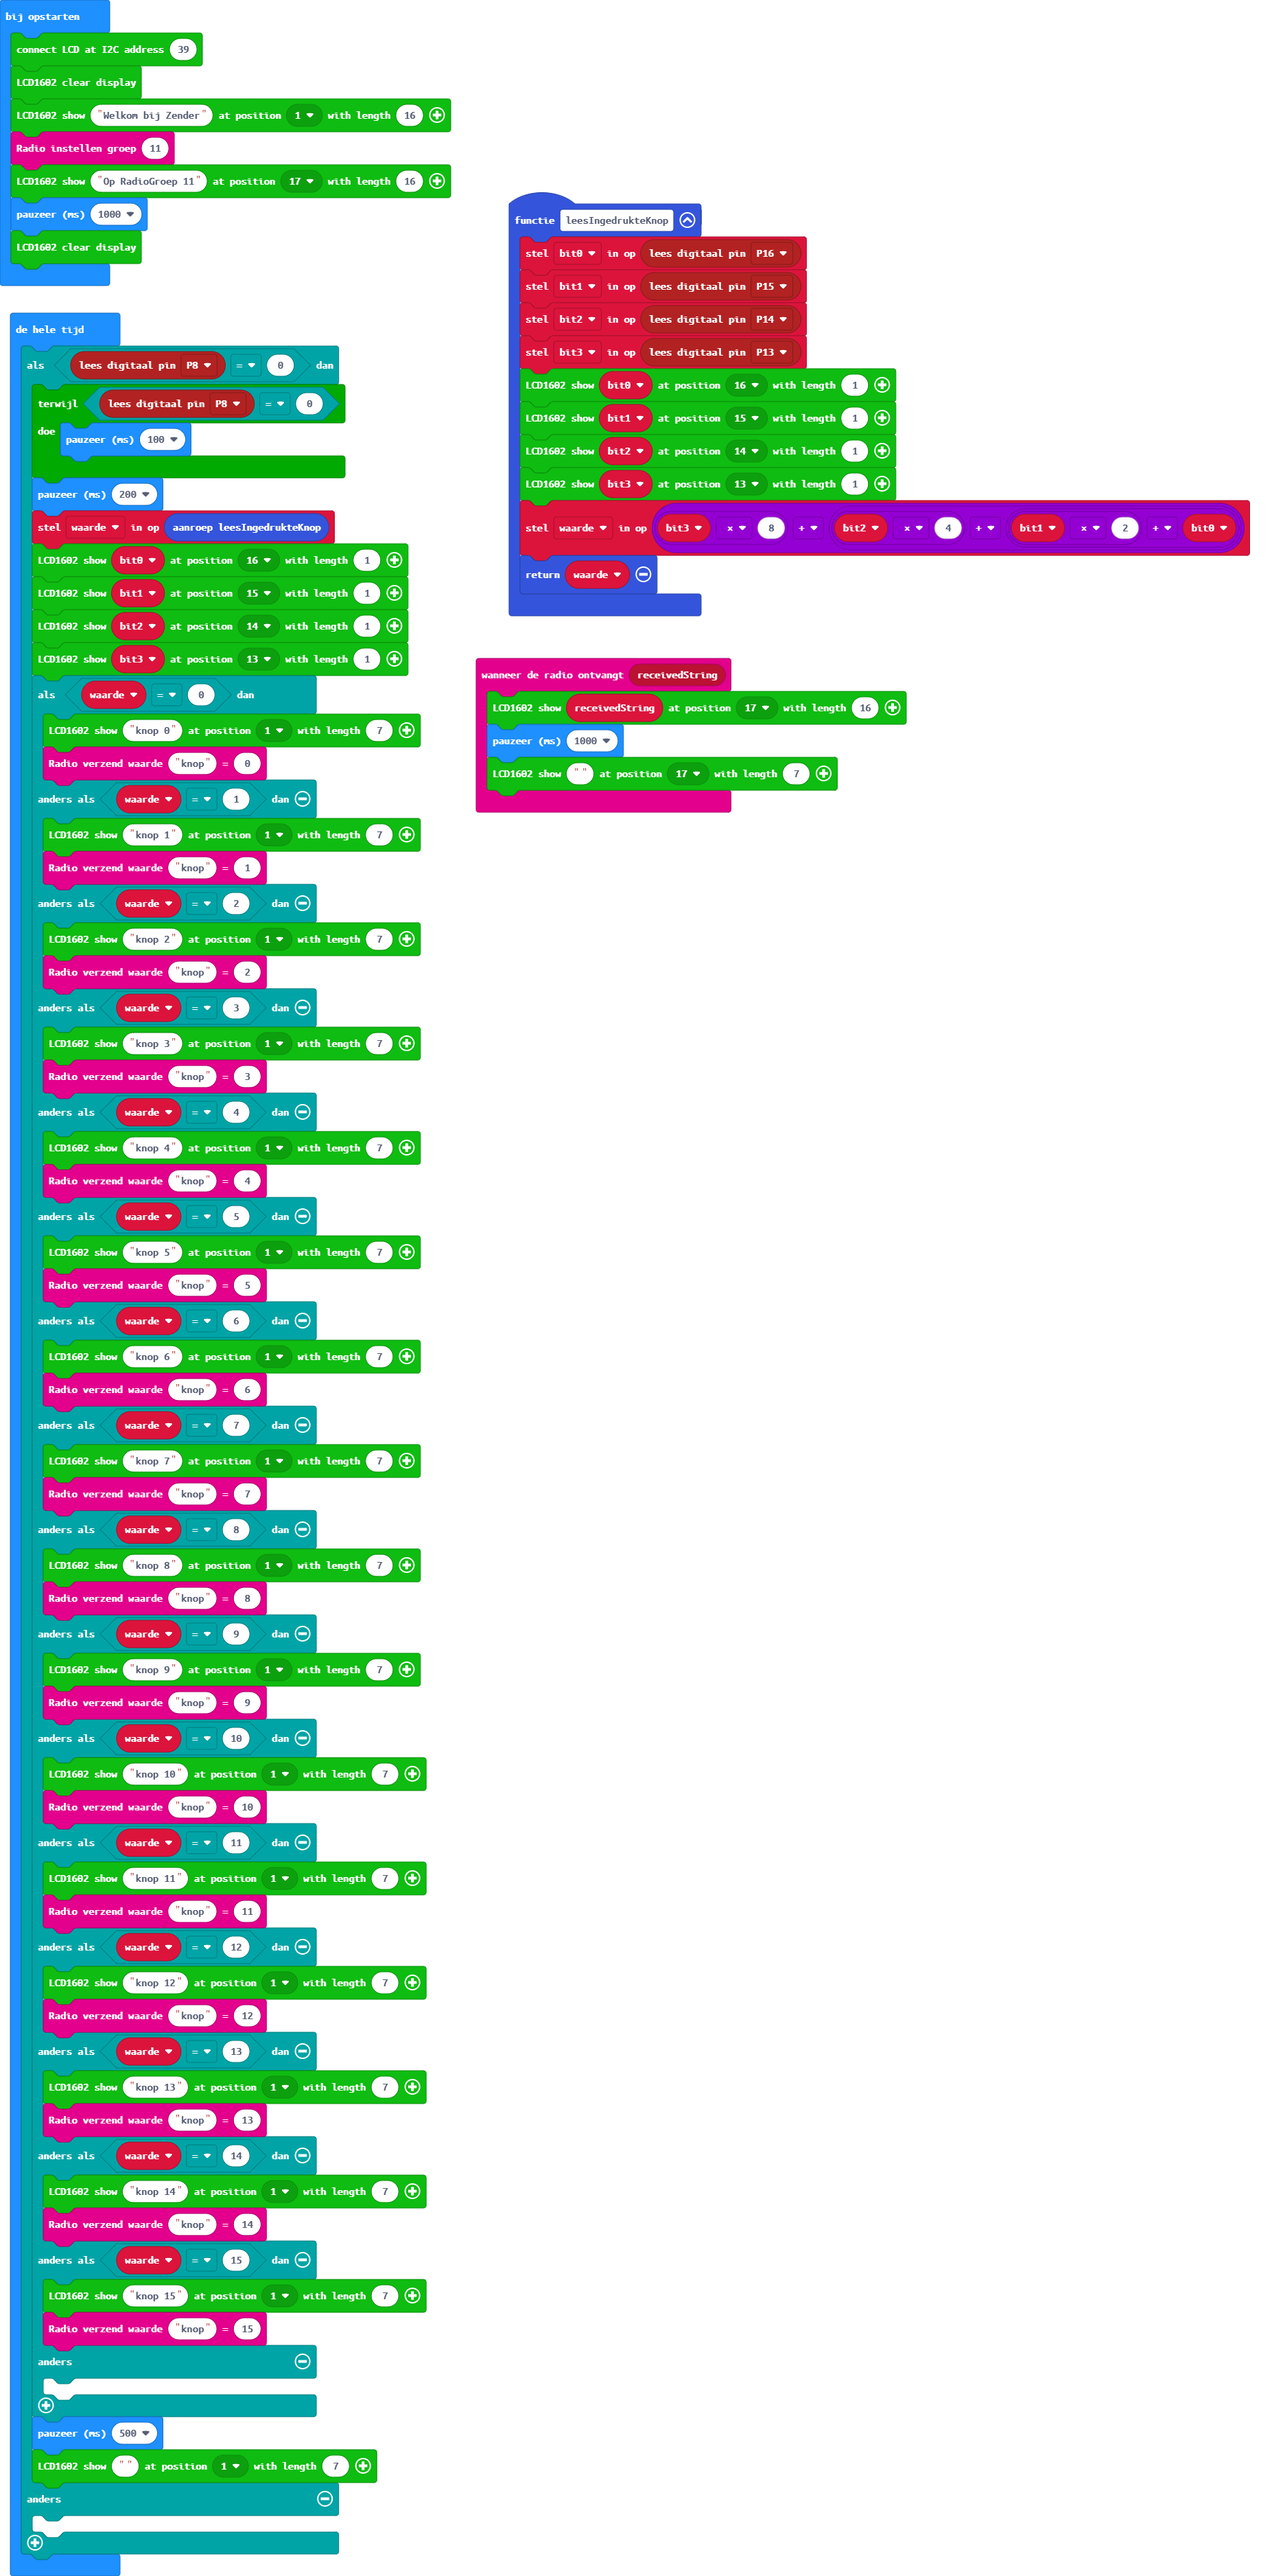
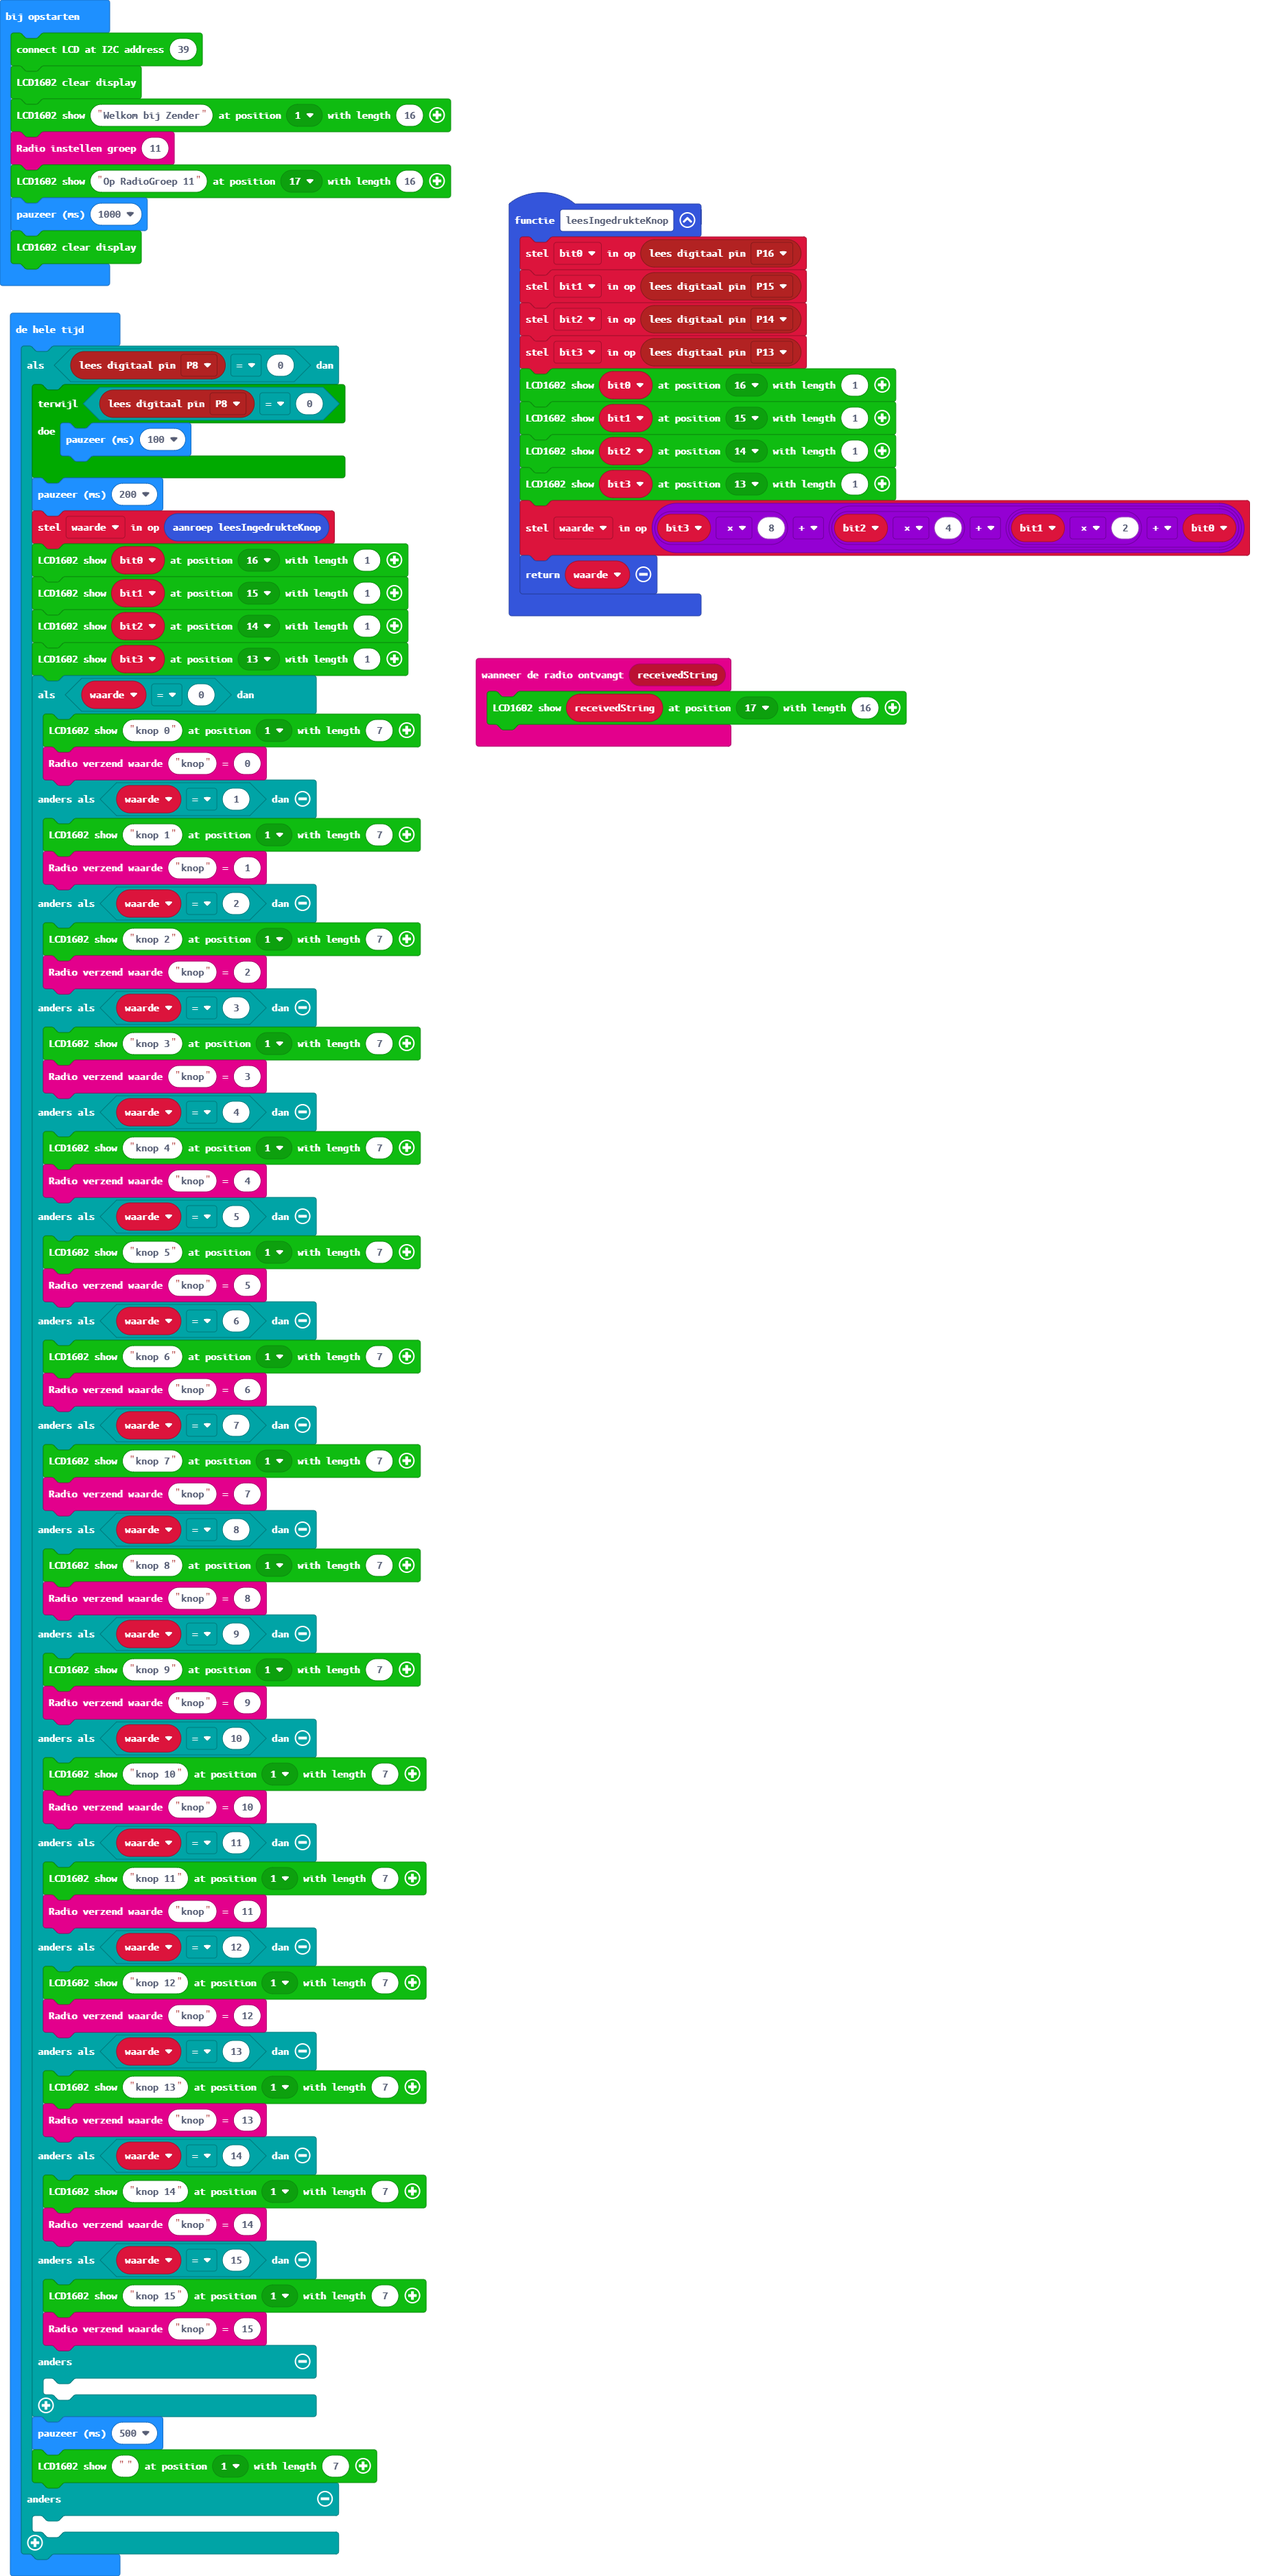
Update main.blocks, main.ts

Changed region(s): [[0.3716, 0.2807, 0.6503, 0.343]]

diff --git a/main.ts b/main.ts
@@ -1,7 +1,5 @@
 radio.onReceivedString(function (receivedString) {
     makerbit.showStringOnLcd1602(receivedString, makerbit.position1602(LcdPosition1602.Pos17), 16)
-    basic.pause(1000)
-    makerbit.showStringOnLcd1602("", makerbit.position1602(LcdPosition1602.Pos17), 7)
 })
 function leesIngedrukteKnop () {
     bit0 = pins.digitalReadPin(DigitalPin.P16)
